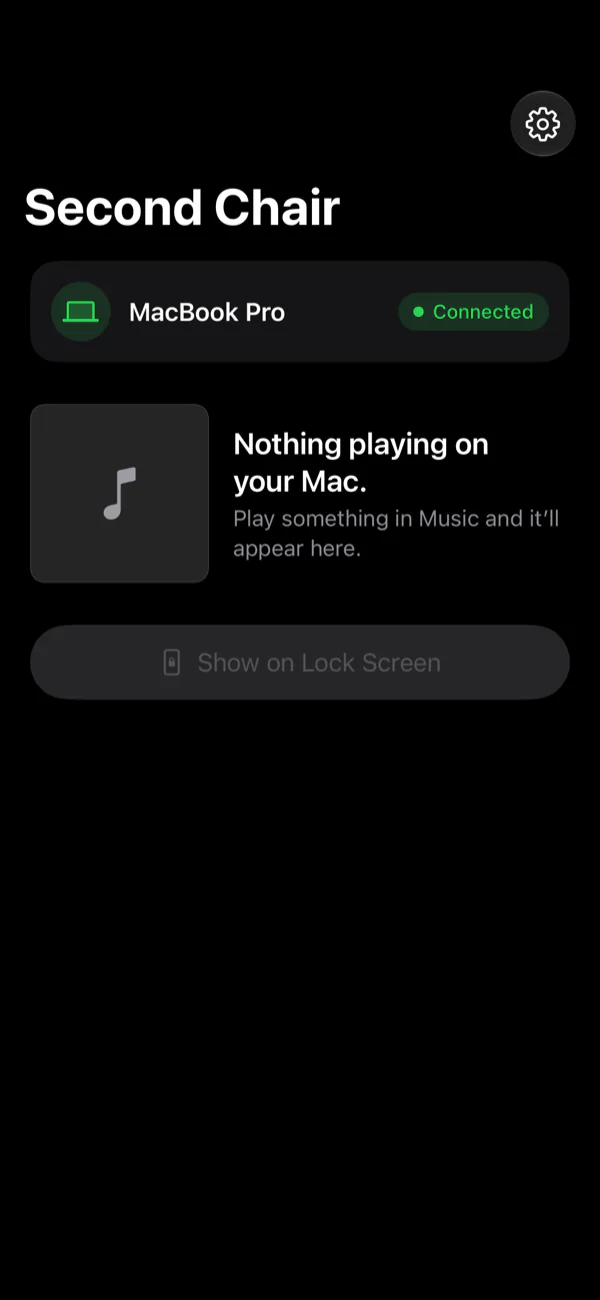
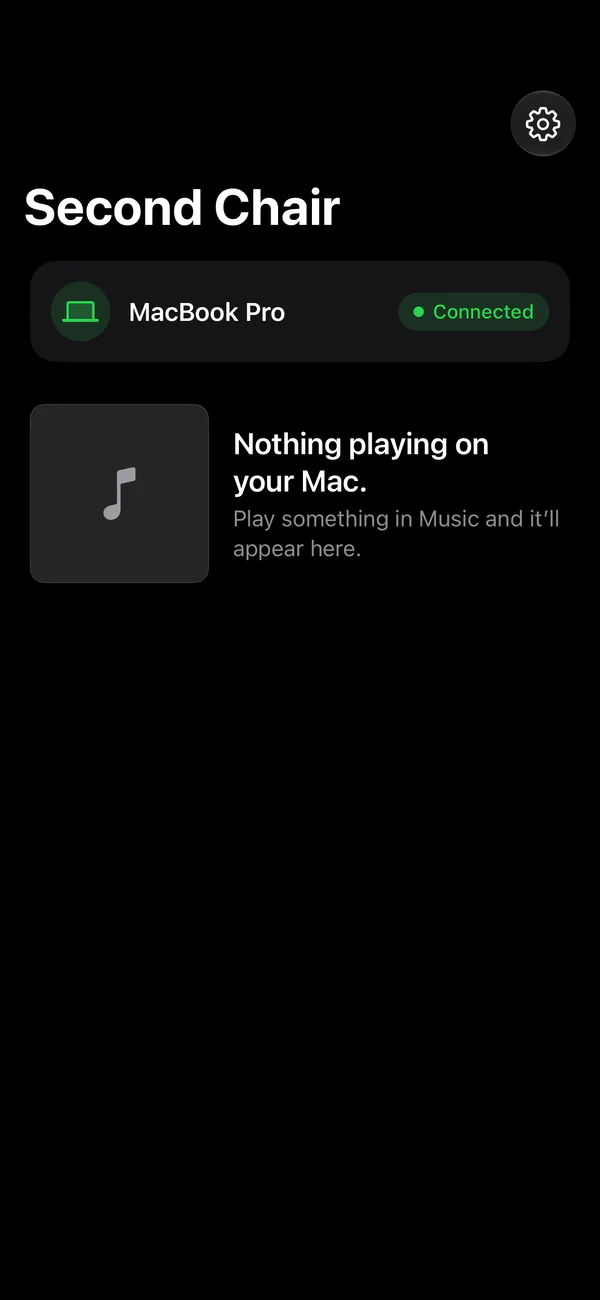
Getting started: new iPhone app pictures without the Lock Screen button; Guide: Refresh Lock Screen and Stop Showing now live in Settings (for build 202611231617)

Changed region(s): [[0.03, 0.4615, 0.96, 0.5538], [0.9, 0.0923, 0.93, 0.1231], [0.54, 0.4, 0.57, 0.4308]]

diff --git a/second-chair/guide/index.html b/second-chair/guide/index.html
@@ -146,8 +146,8 @@
         <dl class="fixes">
           <div><dt>Keep Second Chair running on your Mac.</dt><dd>Turn on <span class="ui">Launch at Login</span> in the music note’s gear (⚙) menu to start Second Chair when you log in.</dd></div>
           <div><dt>Open Music yourself.</dt><dd>Second Chair doesn’t open it for you.</dd></div>
-          <div><dt>Player gone from your Lock Screen?</dt><dd>Open Second Chair on your iPhone and tap <span class="ui">Refresh Lock Screen</span>, or turn on <a href="#notifications">notifications</a> to bring it back with a tap.</dd></div>
-          <div><dt>Want to hide the player?</dt><dd>Touch and hold <span class="ui">Show on Lock Screen</span> in the iPhone app and choose <span class="ui">Stop Showing</span>, or find it in Settings. Your devices stay paired.</dd></div>
+          <div><dt>Player gone from your Lock Screen?</dt><dd>Open Second Chair on your iPhone to bring it back, or turn on <a href="#notifications">notifications</a> to bring it back with a tap.</dd></div>
+          <div><dt>Want to hide the player?</dt><dd>In the iPhone app, open Settings and choose <span class="ui">Stop Showing</span>. Your devices stay paired.</dd></div>
           <div><dt>Away from home?</dt><dd>It works anywhere both devices are online, as long as your Mac is awake with Second Chair running.</dd></div>
         </dl>
       </section>
@@ -221,9 +221,9 @@
 
         <h3 class="mi-grp">The player</h3>
         <div class="mi-faq">
-          <details><summary>Nothing appears on your Lock Screen</summary><div><p>Check that Music is playing on your Mac, then open Second Chair on your iPhone and tap <span class="ui">Refresh Lock Screen</span>.</p></div></details>
+          <details><summary>Nothing appears on your Lock Screen</summary><div><p>Check that Music is playing on your Mac, then open Second Chair on your iPhone. If it still doesn’t appear, open Settings in the app and tap <span class="ui">Refresh Lock Screen</span>.</p></div></details>
           <details><summary><span class="ui">Show on Lock Screen</span> is greyed out</summary><div><p>Start playing something in Music on your Mac.</p></div></details>
-          <details><summary>The player has disappeared, or Apple Music shows instead</summary><div><p>Open Second Chair on your iPhone and tap <span class="ui">Refresh Lock Screen</span>, or tap its playback notification.</p><p>iOS keeps a dismissed player hidden. After your Mac has been paused for about 8 minutes, iOS may show your iPhone’s own Apple Music instead. Resuming playback on your Mac doesn’t switch it back. To automate the return once your iPhone is unlocked, see <a href="#skip-tap">Skip the tap</a>.</p></div></details>
+          <details><summary>The player has disappeared, or Apple Music shows instead</summary><div><p>Open Second Chair on your iPhone, or tap its playback notification.</p><p>iOS keeps a dismissed player hidden. After your Mac has been paused for about 8 minutes, iOS may show your iPhone’s own Apple Music instead. Resuming playback on your Mac doesn’t switch it back. To automate the return once your iPhone is unlocked, see <a href="#skip-tap">Skip the tap</a>.</p></div></details>
           <details><summary>Your iPhone says your Mac is offline</summary><div><p>Wake your Mac and make sure Second Chair is running. Check that both devices are online, then tap <span class="ui">Reconnect</span> on your iPhone.</p></div></details>
           <details><summary>No artwork for a song</summary><div><p>Music has no artwork for this song, and Apple’s catalogue search found no close match. Playback still works without artwork.</p></div></details>
         </div>
@@ -302,7 +302,7 @@
           <details class="more ref" id="removing">
             <summary>Disconnecting and removing Second Chair</summary>
             <ul class="plain">
-              <li><strong>To hide the player</strong> without unpairing, choose <span class="ui">Stop Showing</span> on your iPhone: touch and hold <span class="ui">Show on Lock Screen</span>, or find it in Settings.</li>
+              <li><strong>To hide the player</strong> without unpairing, choose <span class="ui">Stop Showing</span> in Settings in the iPhone app.</li>
               <li><strong>To unpair,</strong> choose <span class="ui">Unpair iPhone…</span> in the gear (⚙) menu on your Mac and confirm, or <span class="ui">Unpair Mac</span> in Settings › Mac in the iPhone app. Either action unpairs both devices. Unpair before deleting the apps to cancel the connection.</li>
               <li><strong>To disconnect Continue Listening,</strong> choose <span class="ui">Disconnect from Music</span> in the gear (⚙) menu on your Mac. Second Chair remains listed under Devices in Music. To remove that entry, use Music › Settings › Advanced › <span class="ui">Forget All Remotes</span>. This removes every remote, including any others you use.</li>
 

diff --git a/second-chair/getting-started/index.html b/second-chair/getting-started/index.html
@@ -234,13 +234,13 @@
             </ul>
           </details>
         </div>
-        <!-- Simulator render of the iPhone app's Home, build 202611221051 (7d99076), before anything plays. -->
+        <!-- Simulator render of the iPhone app's Home, build 202611231617, before anything plays. -->
         <figure class="fig">
           <div class="fig-stage night">
             <div class="phone phone--portrait">
               <div class="phone-body"><div class="phone-bezel"><div class="screen">
                 <span class="island"></span>
-                <img class="app-shot" src="../assets/img/app/home-nothing-playing.webp?v=3" alt="Second Chair on iPhone: the Mac is connected, and it says Nothing playing on your Mac. Play something in Music and it’ll appear here." width="600" height="1300">
+                <img class="app-shot" src="../assets/img/app/home-nothing-playing.webp?v=4" alt="Second Chair on iPhone: the Mac is connected, and it says Nothing playing on your Mac. Play something in Music and it’ll appear here." width="600" height="1300">
                 <div class="shot-bar" aria-hidden="true"><span data-clock="time">18:24</span><i></i></div>
               </div></div></div>
             </div>
@@ -367,13 +367,13 @@
               <p class="gs-do">Open Second Chair and tap <kbd class="ui">Continue on iPhone</kbd>.</p>
               <p class="gs-then">Your Mac pauses, and your music picks up on your iPhone where you left off. The first time, allow Second Chair access to Apple Music.</p>
           </div>
-            <!-- Simulator render of the iPhone app's Home with Continue on iPhone, build 202611221051 (7d99076), the demo's Rooftop Season. -->
+            <!-- Simulator render of the iPhone app's Home with Continue on iPhone, build 202611231617, the demo's Rooftop Season. -->
               <figure class="fig">
                 <div class="fig-stage night">
                   <div class="phone phone--portrait">
               <div class="phone-body"><div class="phone-bezel"><div class="screen">
                 <span class="island"></span>
-                <img class="app-shot" src="../assets/img/app/home-continue-on-iphone.webp?v=3" alt="Second Chair on iPhone playing Rooftop Season by Remy Saint, with the Continue on iPhone button." width="600" height="1300">
+                <img class="app-shot" src="../assets/img/app/home-continue-on-iphone.webp?v=4" alt="Second Chair on iPhone playing Rooftop Season by Remy Saint, with the Continue on iPhone button." width="600" height="1300">
                 <div class="shot-bar" aria-hidden="true"><span data-clock="time">18:24</span><i></i></div>
               </div></div></div>
             </div>
